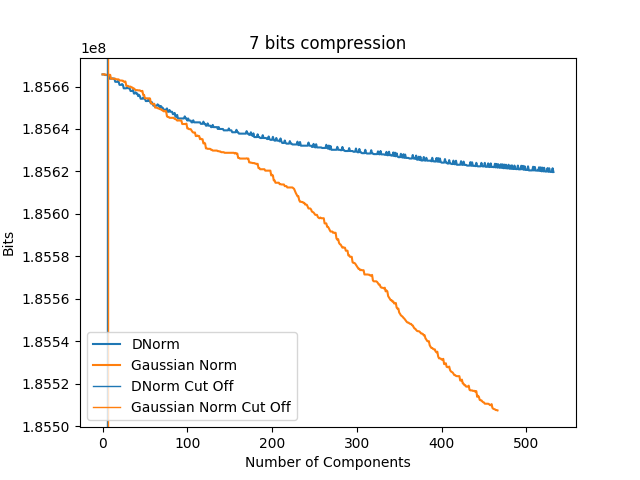
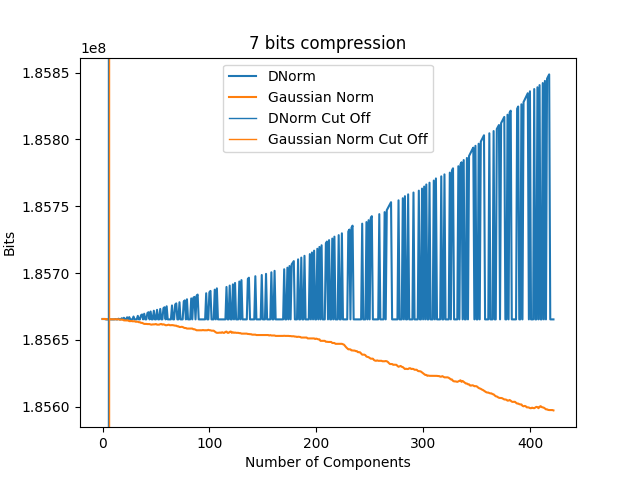
new experiment plot

diff --git a/paper/MPIII/arrow_head/arrow_head_mdl.py b/paper/MPIII/arrow_head/arrow_head_mdl.py
@@ -35,65 +35,65 @@ if __name__ == '__main__':
     valid_idx_arr = []
     s_valid_idx_arr = []
 
-    # for bits in range(3, 9):
-    bits = 5
-    print('{} bits'.format(bits))
-    interval = sax_discretization_pre(data, bits)
+    for bits in range(3, 9):
+    # bits = 5
+        print('{} bits'.format(bits))
+        interval = sax_discretization_pre(data, bits)
 
-    c, h, compress_table, idx_bitsave = subsequence_selection(data, t_min, t_max, mp, mpi, window_size, 10, bits)
-    s_c, s_h, s_compress_table, s_idx_bitsave = sax_subsequence_selection(data, interval, mp, mpi, window_size, 10, bits)
+        c, h, compress_table, idx_bitsave = subsequence_selection(data, t_min, t_max, mp, mpi, window_size, 10, bits)
+        s_c, s_h, s_compress_table, s_idx_bitsave = sax_subsequence_selection(data, interval, mp, mpi, window_size, 10, bits)
 
-    idx_bitsave = np.array(idx_bitsave)
-    s_idx_bitsave = np.array(s_idx_bitsave)
-    cut_off = np.where(np.diff(idx_bitsave[:, 1]) > 0)[0]
+        idx_bitsave = np.array(idx_bitsave)
+        s_idx_bitsave = np.array(s_idx_bitsave)
+        cut_off = np.where(np.diff(idx_bitsave[:, 1]) > 0)[0]
 
-    if cut_off.shape[0] == 0:
-        cut_off = idx_bitsave[:, 1].shape[0]
-    else:
-        cut_off = cut_off[0]
+        if cut_off.shape[0] == 0:
+            cut_off = idx_bitsave[:, 1].shape[0]
+        else:
+            cut_off = cut_off[0]
 
-    s_cut_off = np.where(np.diff(s_idx_bitsave[:, 1]) > 0)[0]
+        s_cut_off = np.where(np.diff(s_idx_bitsave[:, 1]) > 0)[0]
 
-    if s_cut_off.shape[0] == 0:
-        s_cut_off = s_idx_bitsave[:, 1].shape[0]
-    else:
-        s_cut_off = s_cut_off[0]
+        if s_cut_off.shape[0] == 0:
+            s_cut_off = s_idx_bitsave[:, 1].shape[0]
+        else:
+            s_cut_off = s_cut_off[0]
 
-    valid_idx = idx_bitsave[:, 0][:cut_off]
-    s_valid_idx = idx_bitsave[:, 0][:s_cut_off]
+        valid_idx = idx_bitsave[:, 0][:cut_off]
+        s_valid_idx = s_idx_bitsave[:, 0][:s_cut_off]
 
-    valid_idx_arr.append(valid_idx.shape[0])
-    s_valid_idx_arr.append(s_valid_idx.shape[0])
+        valid_idx_arr.append(valid_idx.shape[0])
+        s_valid_idx_arr.append(s_valid_idx.shape[0])
 
 
-    # hit_miss = np.zeros((cut_off, 1))
-    #
-    # for i in range(cut_off):
-    #     if np.min(np.abs(tp - valid_idx[i])) < p * window_size:
-    #         hit_miss[i] = 1
-    #
-    # precision = np.sum(hit_miss) / hit_miss.shape[0]
-    # recall = np.sum(hit_miss) / tp.shape[0]
+        # hit_miss = np.zeros((cut_off, 1))
+        #
+        # for i in range(cut_off):
+        #     if np.min(np.abs(tp - valid_idx[i])) < p * window_size:
+        #         hit_miss[i] = 1
+        #
+        # precision = np.sum(hit_miss) / hit_miss.shape[0]
+        # recall = np.sum(hit_miss) / tp.shape[0]
 
-    precisions, recalls = get_f(valid_idx, tp, p, window_size)
-    s_precisions, s_recalls = get_f(s_valid_idx, tp, p, window_size)
+        precisions, recalls = get_f(valid_idx, tp, p, window_size)
+        s_precisions, s_recalls = get_f(s_valid_idx, tp, p, window_size)
 
-    # plt.plot(idx_bitsave[:, 1], label='DNorm')
-    # plt.plot(s_idx_bitsave[:, 1], label='Gaussian Norm')
-    # plt.axvline(cut_off, linewidth=1, label='DNorm Cut Off', color='C0')
-    # plt.axvline(s_cut_off, linewidth=1, label='Gaussian Norm Cut Off', color='C1')
-    # plt.legend()
-    # plt.title('{} bits compression'.format(bits))
-    # plt.ylabel('Bits')
-    # plt.xlabel('Number of Components')
-    # plt.savefig('./figure/bits/{} bits.png'.format(bits))
-    # plt.show()
-    #
-    # plt.plot(s_recalls, s_precisions, label='Gaussian Norm')
-    # plt.plot(recalls, precisions, label='DNorm')
-    # plt.legend()
-    # plt.title('{} bits compression'.format(bits))
-    # plt.ylabel('Precision')
-    # plt.xlabel('Recall')
-    # plt.savefig('./figure/recall-precision/{} bits.png'.format(bits))
-    # plt.show()
+        plt.plot(idx_bitsave[:, 1], label='DNorm')
+        plt.plot(s_idx_bitsave[:, 1], label='Gaussian Norm')
+        plt.axvline(cut_off, linewidth=1, label='DNorm Cut Off', color='C0')
+        plt.axvline(s_cut_off, linewidth=1, label='Gaussian Norm Cut Off', color='C1')
+        plt.legend()
+        plt.title('{} bits compression'.format(bits))
+        plt.ylabel('Bits')
+        plt.xlabel('Number of Components')
+        plt.savefig('./figure/bits/{} bits.png'.format(bits))
+        plt.show()
+
+        plt.plot(s_recalls, s_precisions, label='Gaussian Norm')
+        plt.plot(recalls, precisions, label='DNorm')
+        plt.legend()
+        plt.title('{} bits compression'.format(bits))
+        plt.ylabel('Precision')
+        plt.xlabel('Recall')
+        plt.savefig('./figure/recall-precision/{} bits.png'.format(bits))
+        plt.show()

diff --git a/paper/MPIII/visual.py b/paper/MPIII/visual.py
@@ -16,11 +16,11 @@ def subsequence_selection(time_series, t_min, t_max, mp, mpi, window_size, nums,
     bit_cost = U * window_size * bits
 
     while True and (len(C) + len(H) <= max_salient) and U >= 0:
-        # print("{}, {}, {}".format(len(C), len(H), U))
-        # print(bit_cost)
         candidates, candidate_idxs = pick_candidates(time_series, t_min, t_max, window_size, mp, bits, nums)
-        if candidate_idxs == []:
+
+        if not candidate_idxs:
             break
+
         best_cand, cand_idx, cand_type, compress_by = pick_best_candidates(time_series, t_min, t_max, candidates, candidate_idxs, H, bits, mpi)
 
         exc_start = max(0, cand_idx - (window_size // 2))
@@ -33,24 +33,21 @@ def subsequence_selection(time_series, t_min, t_max, mp, mpi, window_size, nums,
             idx_bitsave.append([cand_idx, bit_cost, cand_type])
             U -= 1
 
-            # if cand_idx not in compress_table:
-            #     compress_table[cand_idx] = []
+            if cand_idx not in compress_table:
+                compress_table[cand_idx] = []
         else:
             C.append(best_cand)
             C_idx.append(cand_idx)
             U -= 1
             new_cost = bit(C, H, U, window_size, bits)
             idx_bitsave.append([cand_idx, new_cost, cand_type])
-            if new_cost > bit_cost:
-                C, C_idx = C[:-1], C_idx[: -1]
-                # print("Compressing Stop, bits needed {}.".format(new_cost))
-                # break
+
+            bit_cost = min(bit_cost, new_cost)
+
+            if compress_by not in compress_table:
+                compress_table[compress_by] = [cand_idx]
             else:
-                bit_cost = new_cost
-                if compress_by not in compress_table:
-                    compress_table[compress_by] = [cand_idx]
-                else:
-                    compress_table[compress_by].append(cand_idx)
+                compress_table[compress_by].append(cand_idx)
 
     return C_idx, H_idx, compress_table, idx_bitsave
 
@@ -67,11 +64,11 @@ def sax_subsequence_selection(time_series, interval, mp, mpi, window_size, nums,
     bit_cost = U * window_size * bits
 
     while True and (len(C) + len(H) <= max_salient) and U >= 0:
-        # print("{}, {}, {}".format(len(C), len(H), U))
-        # print(bit_cost)
         candidates, candidate_idxs = sax_pick_candidates(time_series, interval, window_size, mp, nums)
-        if candidate_idxs == []:
+
+        if not candidate_idxs:
             break
+
         best_cand, cand_idx, cand_type, compress_by = sax_pick_best_candidates(time_series, interval, candidates, candidate_idxs, H, bits, mpi)
 
         exc_start = max(0, cand_idx - (window_size // 2))
@@ -81,27 +78,24 @@ def sax_subsequence_selection(time_series, interval, mp, mpi, window_size, nums,
         if cand_type == 0:
             H.append(best_cand)
             H_idx.append(cand_idx)
-            idx_bitsave.append([cand_idx, bit_cost])
+            idx_bitsave.append([cand_idx, bit_cost, cand_type])
             U -= 1
 
-            # if cand_idx not in compress_table:
-            #     compress_table[cand_idx] = []
+            if cand_idx not in compress_table:
+                compress_table[cand_idx] = []
         else:
             C.append(best_cand)
             C_idx.append(cand_idx)
             U -= 1
             new_cost = bit(C, H, U, window_size, bits)
-            idx_bitsave.append([cand_idx, new_cost])
-            if new_cost > bit_cost:
-                C, C_idx = C[:-1], C_idx[: -1]
-                # print("Compressing Stop, bits needed {}.".format(new_cost))
-                # break
+            idx_bitsave.append([cand_idx, new_cost, cand_type])
+
+            bit_cost = min(bit_cost, new_cost)
+
+            if compress_by not in compress_table:
+                compress_table[compress_by] = [cand_idx]
             else:
-                bit_cost = new_cost
-                if compress_by not in compress_table:
-                    compress_table[compress_by] = [cand_idx]
-                else:
-                    compress_table[compress_by].append(cand_idx)
+                compress_table[compress_by].append(cand_idx)
 
     return C_idx, H_idx, compress_table, idx_bitsave
 
